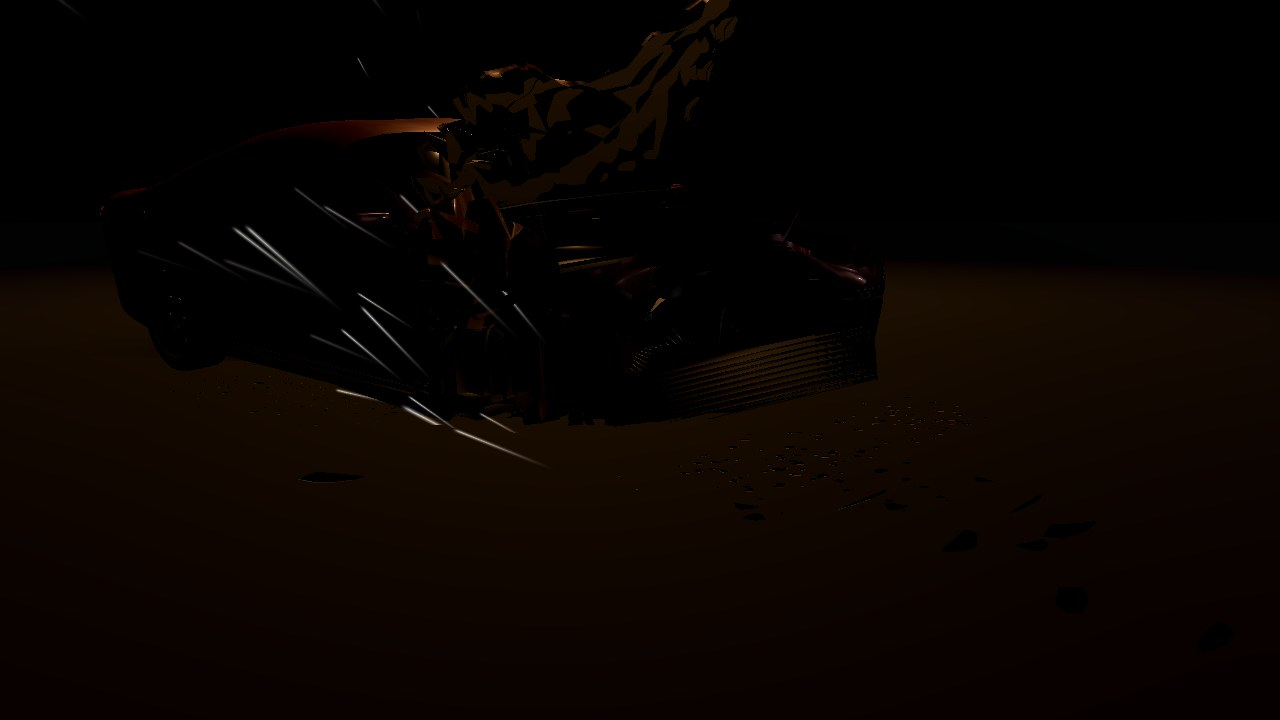
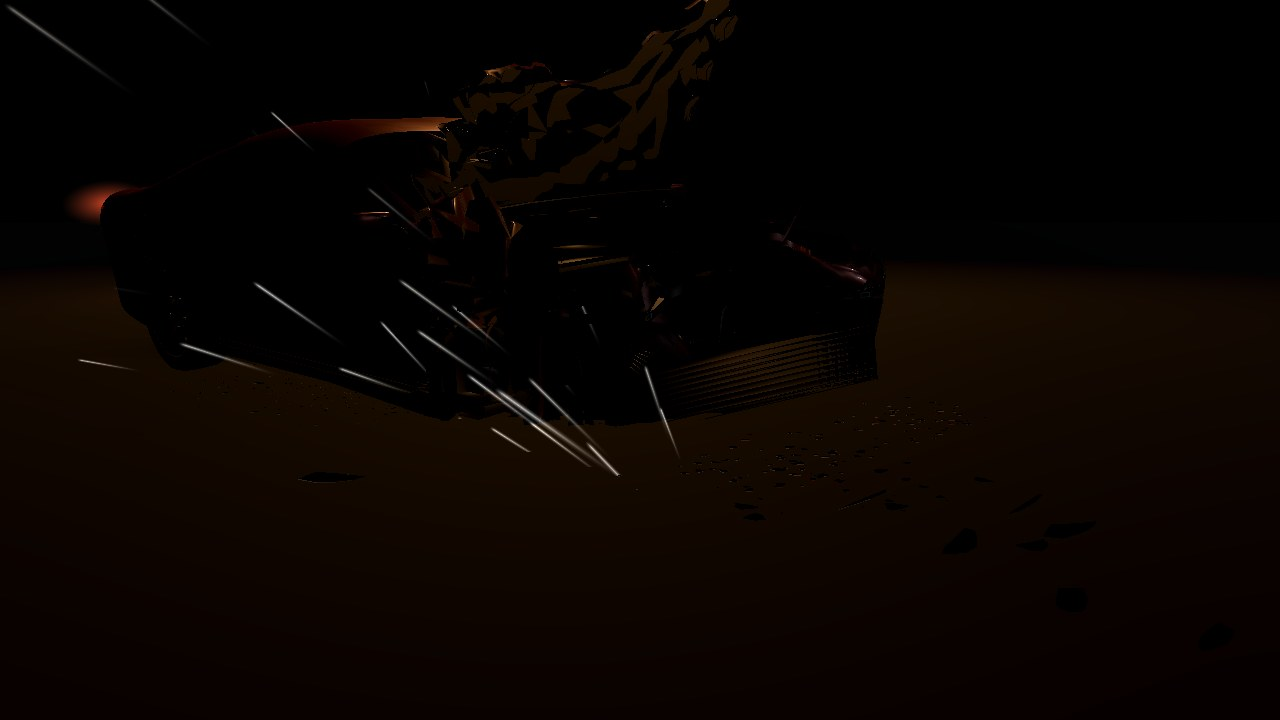
car-crash-3: drag and rollover stills
Claude-Session: https://claude.ai/code/session_01ThLG8xPUrmaiLiJ2xp5Raj

diff --git a/README.md b/README.md
@@ -13,3 +13,6 @@ take_hit a real crash takes). "before" = `CRASH_BREAKUP=0` (main's crumple only)
   just out of frame left), the corner down on its hub.
 - 06: the driver's airbag (white, in the cabin trace) through the burst side window.
 - 07: night: the bare hub dragging on the road throws sparks (staged as if moving at 50 km/h).
+- 08: day: a hanging bumper corner and the hub dragging sparks (staged as if at 50 km/h).
+- 09: the T-bone at 80 km/h, 0.2 s / 0.5 s / 1 s after the hit, from the front: the car tripped
+  over onto its side by the physics.
